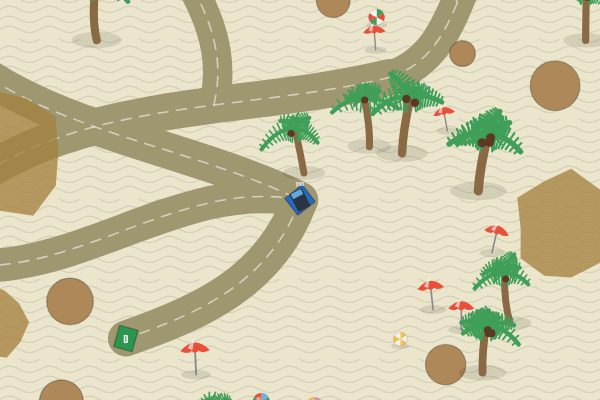
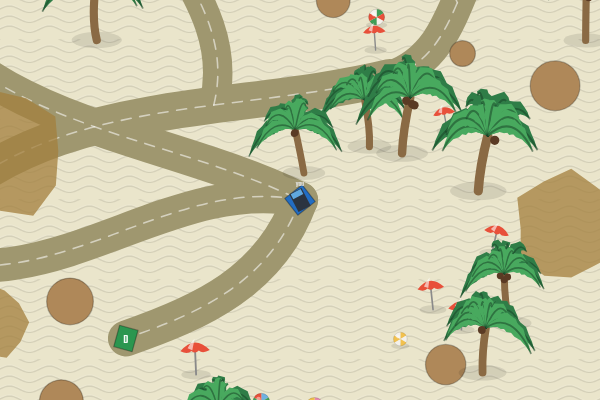
Improve recursive tree branches (autumn/volcanic)
- Branches are now tapered rectangles (broad base, thinner top) with rounded
  joints, instead of plain lines.
- Sub-branches start in the top 25% of their parent (was anywhere along it).
- Sub-branch deviation is 20-50 degrees to either side (was +/-51 deg uniform).
- Length decay 0.9 per level (was 0.8); width decay stays 0.5.

Callers now set fillStyle since branches are filled.

diff --git a/src/game/render.ts b/src/game/render.ts
@@ -424,11 +424,11 @@ function triangle(ctx: CanvasRenderingContext2D, cx: number, apexY: number, half
   ctx.fill();
 }
 
-/** Recursive fractal branch: draws a segment, then spawns children that start
- * anywhere along it (not just the tip), until `depth` reaches `maxDepth`. The
- * trunk (depth 0) forks into 2-5 branches, deeper levels into 0-3. Each child
- * is 0.8x the length and 0.5x the width of its parent. Shared by the bare and
- * charred trees - only the stroke color differs between those biomes. */
+/** Recursive fractal branch drawn as a tapered rectangle (broad base, thinner
+ * top). Children start in the top 25% of their parent and veer 20-50 degrees to
+ * either side; each is 0.9x the length and 0.5x the width of its parent, down to
+ * `maxDepth`. The trunk (depth 0) forks 2-5 ways, deeper levels 0-3. Shared by
+ * the bare and charred trees - only the fill color differs between those biomes. */
 function drawTreeBranch(
   ctx: CanvasRenderingContext2D,
   rng: Rng,
@@ -440,20 +440,35 @@ function drawTreeBranch(
   depth: number,
   maxDepth: number,
 ): void {
-  const ex = x + Math.cos(angle) * length;
-  const ey = y + Math.sin(angle) * length;
-  ctx.lineWidth = Math.max(0.5, width);
+  const dx = Math.cos(angle);
+  const dy = Math.sin(angle);
+  const ex = x + dx * length;
+  const ey = y + dy * length;
+  const baseHalf = Math.max(0.4, width) / 2;
+  const topHalf = Math.max(0.3, width * 0.5) / 2;
+  const nx = -dy; // unit normal to the branch
+  const ny = dx;
   ctx.beginPath();
-  ctx.moveTo(x, y);
-  ctx.lineTo(ex, ey);
-  ctx.stroke();
+  ctx.moveTo(x + nx * baseHalf, y + ny * baseHalf);
+  ctx.lineTo(ex + nx * topHalf, ey + ny * topHalf);
+  ctx.lineTo(ex - nx * topHalf, ey - ny * topHalf);
+  ctx.lineTo(x - nx * baseHalf, y - ny * baseHalf);
+  ctx.closePath();
+  ctx.fill();
+  // Round the joint so angled children connect smoothly.
+  ctx.beginPath();
+  ctx.arc(x, y, baseHalf, 0, TAU);
+  ctx.fill();
+
   if (depth >= maxDepth) return;
   const children = depth === 0 ? randInt(rng, 2, 5) : randInt(rng, 0, 3);
   for (let i = 0; i < children; i++) {
-    const t = randRange(rng, 0, 1); // sub-branch starts anywhere along this branch
-    const sx = x + Math.cos(angle) * length * t;
-    const sy = y + Math.sin(angle) * length * t;
-    drawTreeBranch(ctx, rng, sx, sy, angle + randRange(rng, -0.9, 0.9), length * 0.8, width * 0.5, depth + 1, maxDepth);
+    const t = randRange(rng, 0.75, 1); // start in the top 25% of this branch
+    const sx = x + dx * length * t;
+    const sy = y + dy * length * t;
+    const deviation = (randRange(rng, 20, 50) * Math.PI) / 180; // 20-50 deg, either side
+    const childAngle = angle + (rng() < 0.5 ? -deviation : deviation);
+    drawTreeBranch(ctx, rng, sx, sy, childAngle, length * 0.9, width * 0.5, depth + 1, maxDepth);
   }
 }
 
@@ -1131,8 +1146,7 @@ function drawProp(ctx: CanvasRenderingContext2D, kind: string, variant: number, 
       break;
     }
     case "baretree": {
-      ctx.strokeStyle = "#6b4a2f";
-      ctx.lineCap = "round";
+      ctx.fillStyle = "#6b4a2f";
       drawTreeBranch(ctx, rng, 0, 9, -Math.PI / 2, randRange(rng, 7, 10), 2.4, 0, 5);
       break;
     }
@@ -1158,8 +1172,7 @@ function drawProp(ctx: CanvasRenderingContext2D, kind: string, variant: number, 
     }
     case "charredtree": {
       // Same recursive tree as the autumn bare tree, only darker.
-      ctx.strokeStyle = "#2e2724";
-      ctx.lineCap = "round";
+      ctx.fillStyle = "#2e2724";
       drawTreeBranch(ctx, rng, 0, 9, -Math.PI / 2, randRange(rng, 7, 10), 2.4, 0, 5);
       break;
     }
